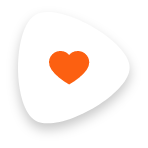
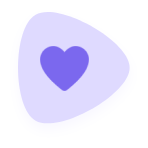
them changed

diff --git a/lib/view/more/change_address_view.dart b/lib/view/more/change_address_view.dart
@@ -1,6 +1,6 @@
 // import 'dart:html';
 
-import 'package:custom_map_markers/custom_map_markers.dart';
+// import 'package:custom_map_markers/custom_map_markers.dart';
 import 'package:flutter/foundation.dart';
 import 'package:flutter/gestures.dart';
 import 'package:flutter/material.dart';
@@ -22,7 +22,7 @@ class _ChangeAddressViewState extends State<ChangeAddressView> {
   //   LatLng(37.42796133580664, -122.085749655962),
   // ];
 
-  late List<MarkerData> _customMarkers;
+  // late List<MarkerData> _customMarkers;
 
   // static const CameraPosition _kLake = CameraPosition(
   //     bearing: 192.8334901395799,
@@ -33,12 +33,12 @@ class _ChangeAddressViewState extends State<ChangeAddressView> {
   @override
   void initState() {
     super.initState();
-    _customMarkers = [
+    // _customMarkers = [
       // MarkerData(
       //     marker:
           // Marker(markerId: const MarkerId('id-1'), position: locations[0]),
           // child: _customMarker('Everywhere\nis a Widgets', Colors.blue)),
-    ];
+    // ];
   }
 
   _customMarker(String symbol, Color color) {

diff --git a/lib/view/profile/profile_view.dart b/lib/view/profile/profile_view.dart
@@ -6,7 +6,7 @@ import 'package:food_delivery/common_widget/round_button.dart';
 import 'package:image_picker/image_picker.dart';
 
 import '../../common_widget/round_textfield.dart';
-// import '../more/my_order_view.dart';
+import '../more/my_order_view.dart';
 
 class ProfileView extends StatefulWidget {
   const ProfileView({super.key});
@@ -50,10 +50,10 @@ class _ProfileViewState extends State<ProfileView> {
                     ),
                     IconButton(
                       onPressed: () {
-                        // Navigator.push(
-                        //     context,
-                        //     MaterialPageRoute(
-                        //         builder: (context) => const MyOrderView()));
+                        Navigator.push(
+                            context,
+                            MaterialPageRoute(
+                                builder: (context) => const MyOrderView()));
                       },
                       icon: Image.asset(
                         "assets/img/shopping_cart.png",

diff --git a/lib/common/color_extention.dart b/lib/common/color_extention.dart
@@ -1,7 +1,11 @@
 import 'package:flutter/material.dart';
 
 class TColor {
-  static Color get primary => const Color(0xffFC6011);
+  // static Color get primary => const Color(0xffFC6011);
+  // static Color get primary => const Color(0xff008080);
+  // static Color get primary => const Color(0xff4169E1);
+  // static Color get primary => const Color(0xffFFC0CB);
+  static Color get primary => const Color(0xff7B68EE);
   static Color get primaryText => const Color(0xff4A4B4D);
   static Color get secondaryText => const Color(0xff7C7D7E);
   static Color get textfield => const Color(0xffF2F2F2);

diff --git a/lib/view/more/more_view.dart b/lib/view/more/more_view.dart
@@ -192,7 +192,7 @@ class _MoreViewState extends State<MoreView> {
                                     Container(
                                       padding: const EdgeInsets.all(4),
                                       decoration: BoxDecoration(
-                                          color: Colors.red,
+                                          color: const Color(0xFF7B68EE),
                                           borderRadius:
                                           BorderRadius.circular(12.5)),
                                       alignment: Alignment.center,

diff --git a/lib/view/login/welcome_view.dart b/lib/view/login/welcome_view.dart
@@ -37,7 +37,7 @@ class _WelcomeViewState extends State<WelcomeView> {
               ],
             ),
             SizedBox(
-              height: media.width * 0.1,
+              height: media.width * 0.01,
             ),
             Text(
               "Discover the best foods from over 1,000\nrestaurants and fast delivery to your\ndoorstep",
